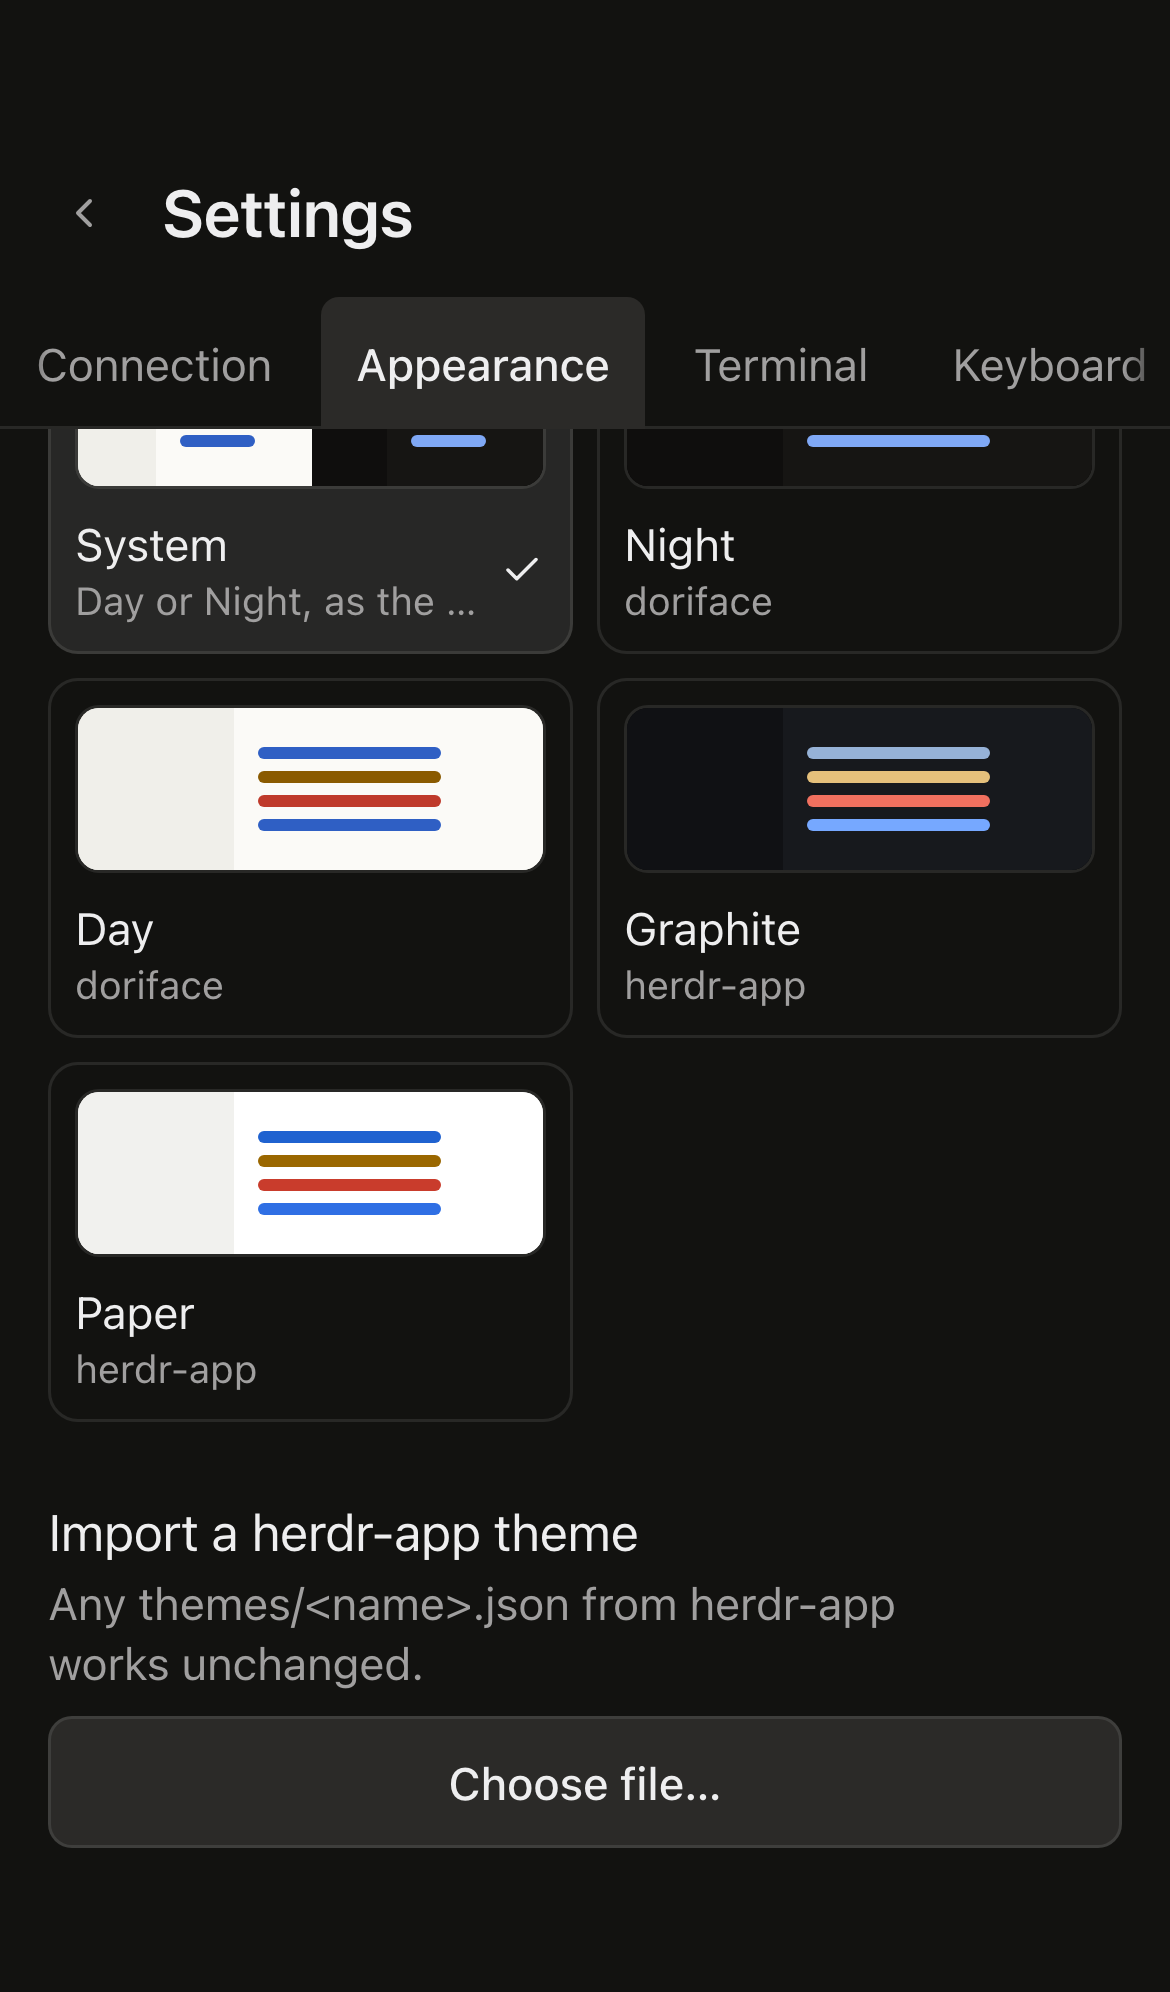
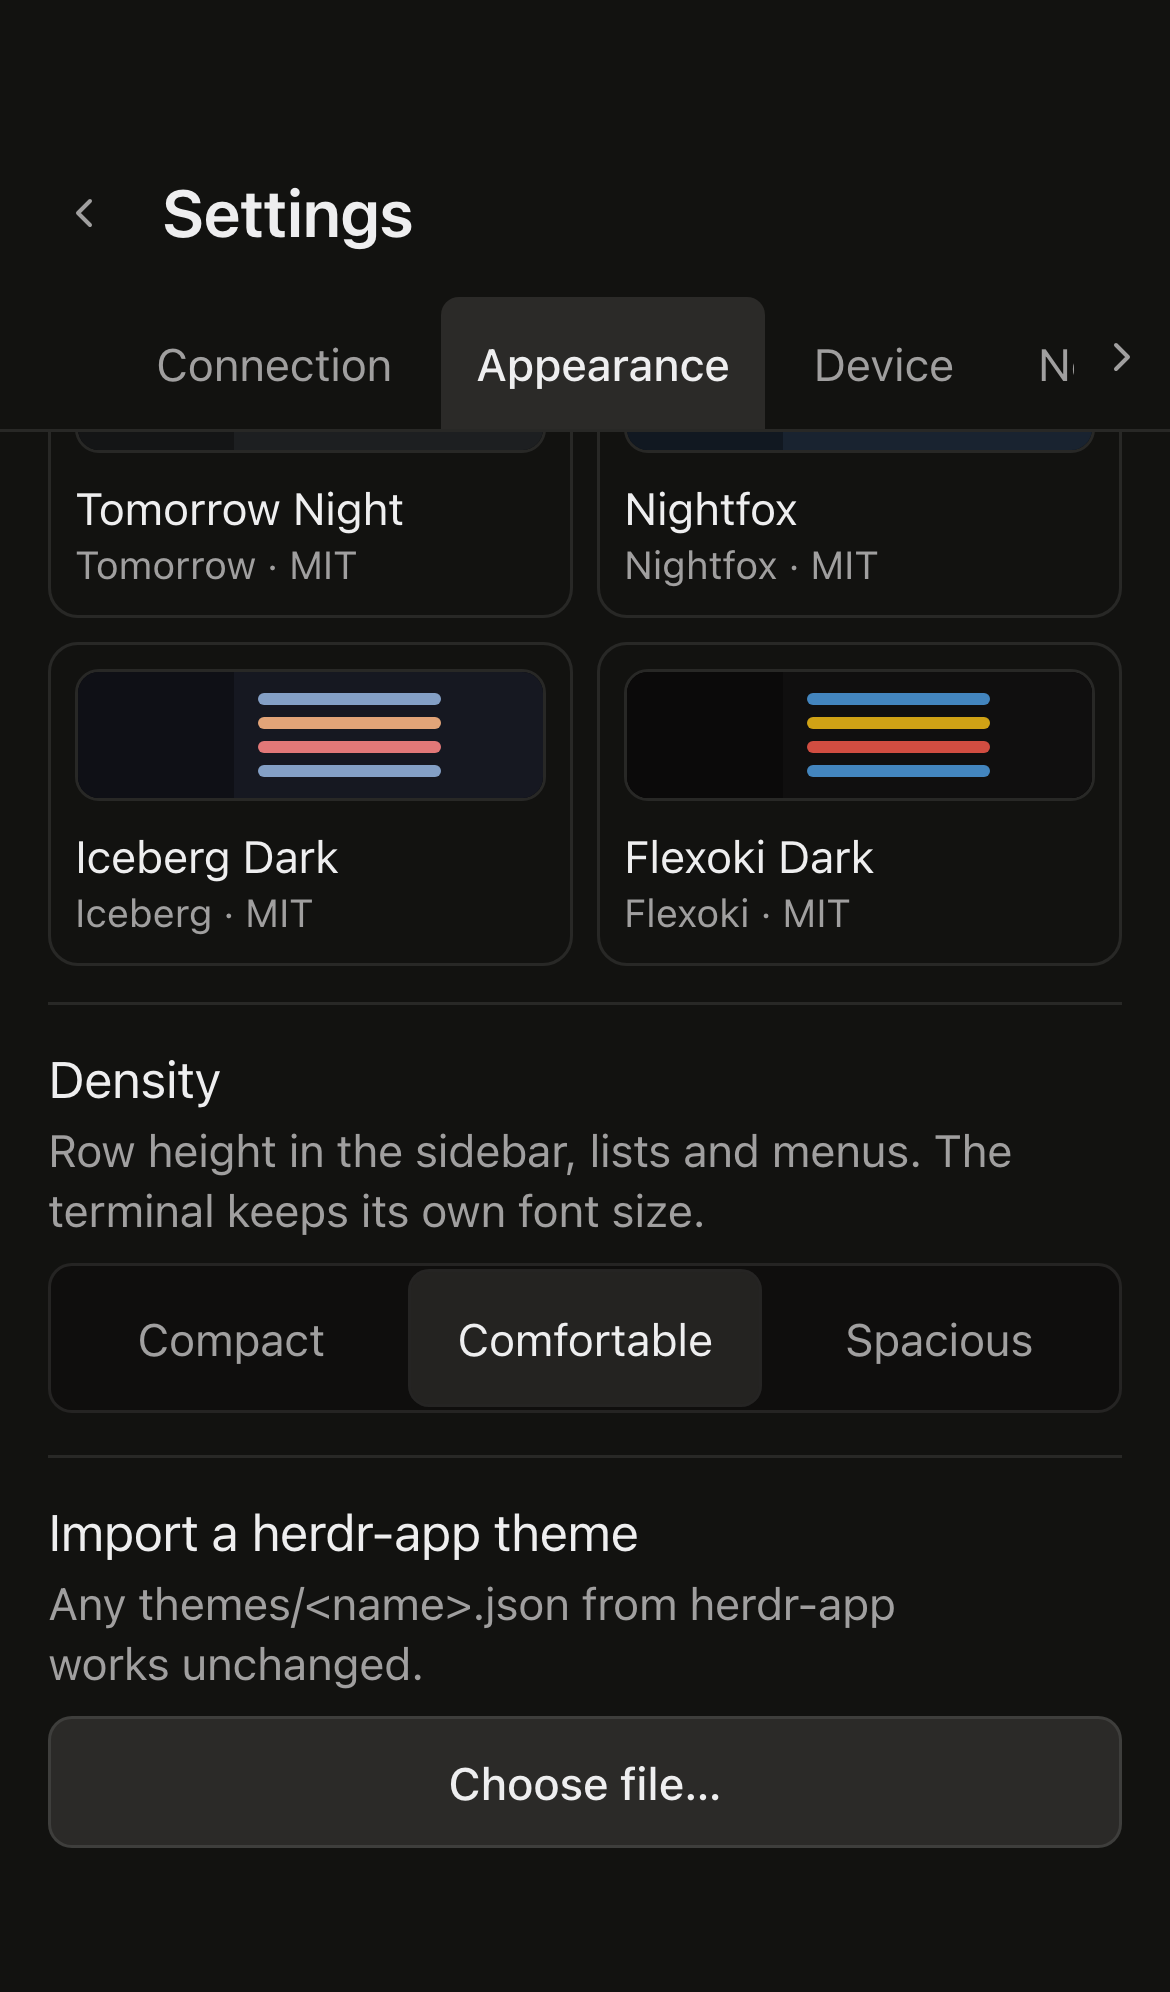
design(ui): mock up the theme library, density and device settings
ThemeBrowser lists dark and light themes with a search, their counts and one
pick per list; ThemePicker cards sit in a denser 8 rem grid and take a label.
The showcase's Appearance section uses them beside an Appearance switch and
Density, and a new section mocks up This device (keep the screen awake,
install, iOS Add to Home Screen). Captures in light and dark at 1440 and 390.

Part of #198

diff --git a/packages/ui/src/components/theme-browser.tsx b/packages/ui/src/components/theme-browser.tsx
@@ -1,0 +1,93 @@
+import { Search } from "lucide-react";
+import { useDeferredValue, useState } from "react";
+import { cn } from "../lib/cn.ts";
+import { Input } from "./input.tsx";
+import { SegmentedControl } from "./segmented-control.tsx";
+import { ThemePicker, type ThemeOption } from "./theme-picker.tsx";
+
+export type ThemeKind = "dark" | "light";
+
+export interface ThemeBrowserProps {
+  /** Every theme; each is listed under Dark or Light by its own `theme.light`. */
+  readonly options: readonly ThemeOption[];
+  /** The theme used when the appearance is dark, and when it is light. */
+  readonly dark: string;
+  readonly light: string;
+  /** The list shown first. */
+  readonly defaultKind: ThemeKind;
+  readonly onPick: (id: string, kind: ThemeKind) => void;
+  readonly className?: string;
+}
+
+const LABEL: Readonly<Record<ThemeKind, string>> = { dark: "Dark themes", light: "Light themes" };
+
+const matches = (option: ThemeOption, query: string): boolean =>
+  query === "" || `${option.name} ${option.source}`.toLowerCase().includes(query);
+
+/**
+ * The theme library: dark and light lists with their own pick, filtered by a search over name and source. A search
+ * that matches nothing in this list says so in place, beside how many the other list holds.
+ */
+export function ThemeBrowser({ options, dark, light, defaultKind, onPick, className }: ThemeBrowserProps) {
+  const [kind, setKind] = useState<ThemeKind>(defaultKind);
+  const [search, setSearch] = useState("");
+  const query = useDeferredValue(search.trim().toLowerCase());
+  const of = (wanted: ThemeKind) =>
+    options.filter((option) => option.theme.light === (wanted === "light") && matches(option, query));
+  const shown = of(kind);
+  const other: ThemeKind = kind === "dark" ? "light" : "dark";
+  const elsewhere = of(other).length;
+  const pickName = (wanted: ThemeKind) =>
+    options.find((option) => option.id === (wanted === "dark" ? dark : light))?.name ?? "None";
+  return (
+    <div className={cn("flex flex-col gap-3 py-3", className)}>
+      <div className="flex flex-wrap items-center gap-2">
+        <div className="relative min-w-[min(14rem,100%)] flex-1">
+          <Search
+            aria-hidden
+            className="pointer-events-none absolute top-1/2 left-2.5 size-3.5 -translate-y-1/2 text-muted-foreground"
+          />
+          <Input
+            type="search"
+            aria-label="Search themes"
+            placeholder="Search themes"
+            value={search}
+            onChange={(event) => setSearch(event.target.value)}
+            className="pl-8"
+          />
+        </div>
+        <SegmentedControl
+          label="Theme list"
+          value={kind}
+          onValueChange={setKind}
+          className="max-sm:w-full"
+          options={[
+            { value: "dark", label: `Dark ${of("dark").length}` },
+            { value: "light", label: `Light ${of("light").length}` },
+          ]}
+        />
+      </div>
+      <p className="text-sm text-muted-foreground">
+        Dark: <span className="text-foreground">{pickName("dark")}</span>
+        <span aria-hidden> · </span>
+        Light: <span className="text-foreground">{pickName("light")}</span>
+      </p>
+      {shown.length === 0 ? (
+        <p
+          role="status"
+          className="rounded-lg border border-border px-3 py-6 text-center text-sm text-muted-foreground"
+        >
+          No {kind} theme matches “{search.trim()}”.
+          {elsewhere > 0 ? ` ${elsewhere} ${other} ${elsewhere === 1 ? "theme does" : "themes do"}.` : ""}
+        </p>
+      ) : (
+        <ThemePicker
+          label={LABEL[kind]}
+          options={shown}
+          value={kind === "dark" ? dark : light}
+          onValueChange={(id) => onPick(id, kind)}
+        />
+      )}
+    </div>
+  );
+}

diff --git a/packages/ui/showcase/screens/settings-sections.tsx b/packages/ui/showcase/screens/settings-sections.tsx
@@ -2,28 +2,25 @@ import { Laptop, Smartphone, Tablet } from "lucide-react";
 import { useState, type ReactNode } from "react";
 import {
   BUILTIN_PALETTES,
+  BUILTIN_THEMES,
   Button,
   Input,
   SegmentedControl,
   SettingRow,
-  ThemePicker,
+  ThemeBrowser,
+  isBuiltinThemeName,
   resolveTheme,
   type ThemeOption,
 } from "../../src/index.ts";
 
-const THEMES: readonly ThemeOption[] = [
-  {
-    id: "system",
-    name: "System",
-    source: "Day or Night, as the device",
-    theme: resolveTheme(BUILTIN_PALETTES.day),
-    dark: resolveTheme(BUILTIN_PALETTES.night),
-  },
-  { id: "night", name: "Night", source: "doriface", theme: resolveTheme(BUILTIN_PALETTES.night) },
-  { id: "day", name: "Day", source: "doriface", theme: resolveTheme(BUILTIN_PALETTES.day) },
-  { id: "graphite", name: "Graphite", source: "herdr-app", theme: resolveTheme(BUILTIN_PALETTES.graphite) },
-  { id: "paper", name: "Paper", source: "herdr-app", theme: resolveTheme(BUILTIN_PALETTES.paper) },
-];
+const THEMES: readonly ThemeOption[] = Object.keys(BUILTIN_PALETTES)
+  .filter(isBuiltinThemeName)
+  .map((id) => ({
+    id,
+    name: BUILTIN_THEMES[id].name,
+    source: [BUILTIN_THEMES[id].family, BUILTIN_THEMES[id].licence].filter(Boolean).join(" · "),
+    theme: resolveTheme(BUILTIN_PALETTES[id]),
+  }));
 
 const DEVICES = [
   { id: "d1", name: "MacBook Pro", kind: <Laptop />, seen: "This device", current: true },
@@ -104,12 +101,51 @@ export function ConnectionSection() {
 }
 
 export function AppearanceSection() {
-  const [theme, setTheme] = useState("system");
+  const [mode, setMode] = useState<"system" | "light" | "dark">("system");
+  const [picks, setPicks] = useState({ dark: "night", light: "day" });
+  const [density, setDensity] = useState<"compact" | "comfortable" | "spacious">("comfortable");
   return (
     <Group title="Appearance">
-      <div className="py-3">
-        <ThemePicker options={THEMES} value={theme} onValueChange={setTheme} />
-      </div>
+      <SettingRow
+        title="Appearance"
+        description="System follows this device's light or dark setting."
+        control={
+          <SegmentedControl
+            label="Appearance"
+            value={mode}
+            onValueChange={setMode}
+            options={[
+              { value: "system", label: "System" },
+              { value: "light", label: "Light" },
+              { value: "dark", label: "Dark" },
+            ]}
+          />
+        }
+      />
+      <ThemeBrowser
+        options={THEMES}
+        dark={picks.dark}
+        light={picks.light}
+        defaultKind="dark"
+        onPick={(id, kind) => setPicks((current) => ({ ...current, [kind]: id }))}
+        className="border-b border-border"
+      />
+      <SettingRow
+        title="Density"
+        description="Row height in the sidebar, lists and menus. The terminal keeps its own font size."
+        control={
+          <SegmentedControl
+            label="Density"
+            value={density}
+            onValueChange={setDensity}
+            options={[
+              { value: "compact", label: "Compact" },
+              { value: "comfortable", label: "Comfortable" },
+              { value: "spacious", label: "Spacious" },
+            ]}
+          />
+        }
+      />
       <SettingRow
         title="Import a herdr-app theme"
         description="Any themes/<name>.json from herdr-app works unchanged."

diff --git a/packages/ui/src/components/theme-picker.tsx b/packages/ui/src/components/theme-picker.tsx
@@ -17,6 +17,8 @@ export interface ThemePickerProps {
   readonly options: readonly ThemeOption[];
   readonly value: string;
   readonly onValueChange?: (id: string) => void;
+  /** The group's accessible name. */
+  readonly label?: string;
   readonly className?: string;
 }
 
@@ -38,15 +40,15 @@ function Preview({ theme, className }: { readonly theme: ResolvedTheme; readonly
  * Theme swatches drawn from each theme's own colours. A system-following option shows its light and
  * dark sides split down the middle. Selection is a wash plus a check, not a coloured ring.
  */
-export function ThemePicker({ options, value, onValueChange, className }: ThemePickerProps) {
+export function ThemePicker({ options, value, onValueChange, label = "Theme", className }: ThemePickerProps) {
   return (
     <RadioGroup
-      aria-label="Theme"
+      aria-label={label}
       value={value}
       onValueChange={(next) => {
         if (typeof next === "string") onValueChange?.(next);
       }}
-      className={cn("grid grid-cols-[repeat(auto-fill,minmax(9.5rem,1fr))] gap-2", className)}
+      className={cn("grid grid-cols-[repeat(auto-fill,minmax(8rem,1fr))] gap-2", className)}
     >
       {options.map((option) => (
         <Radio.Root
@@ -57,14 +59,18 @@ export function ThemePicker({ options, value, onValueChange, className }: ThemeP
             "hover:bg-hover focus-visible:outline-2 focus-visible:outline-solid focus-visible:outline-ring data-checked:bg-selected",
           )}
         >
-          <span aria-hidden className="flex h-14 overflow-hidden rounded-md border border-border">
+          <span aria-hidden className="flex h-11 overflow-hidden rounded-md border border-border">
             <Preview theme={option.theme} className="flex-1" />
             {option.dark === undefined ? null : <Preview theme={option.dark} className="flex-1" />}
           </span>
           <span className="flex items-center gap-1.5">
             <span className="min-w-0 flex-1">
-              <span className="block truncate text-sm text-foreground">{option.name}</span>
-              <span className="block truncate text-xs text-muted-foreground">{option.source}</span>
+              <span title={option.name} className="block truncate text-sm text-foreground">
+                {option.name}
+              </span>
+              <span title={option.source} className="block truncate text-xs text-muted-foreground">
+                {option.source}
+              </span>
             </span>
             <Radio.Indicator className="flex size-4 items-center justify-center text-foreground">
               <Check className="size-3.5" />

diff --git a/packages/ui/showcase/screens/settings.tsx b/packages/ui/showcase/screens/settings.tsx
@@ -1,15 +1,17 @@
-import { ChevronLeft, Keyboard, Link2, Palette, SquareTerminal, X } from "lucide-react";
+import { ChevronLeft, Keyboard, Link2, MonitorSmartphone, Palette, SquareTerminal, X } from "lucide-react";
 import { useState, type ReactNode } from "react";
 import { Button, IconButton, ScrollArea, Tab, TabList, Tabs, cn } from "../../src/index.ts";
+import { DeviceSection } from "./settings-device.tsx";
 import { KeyboardSection } from "./settings-keyboard.tsx";
 import { AppearanceSection, ConnectionSection } from "./settings-sections.tsx";
 import { TerminalSection } from "./settings-terminal.tsx";
 
-export type SettingsSection = "connection" | "appearance" | "terminal" | "keyboard";
+export type SettingsSection = "connection" | "appearance" | "device" | "terminal" | "keyboard";
 
 const SECTIONS = [
   { id: "connection", label: "Connection", icon: <Link2 /> },
   { id: "appearance", label: "Appearance", icon: <Palette /> },
+  { id: "device", label: "Device", icon: <MonitorSmartphone /> },
   { id: "terminal", label: "Terminal", icon: <SquareTerminal /> },
   { id: "keyboard", label: "Keyboard", icon: <Keyboard /> },
 ] as const;
@@ -17,6 +19,7 @@ const SECTIONS = [
 const BODY: Readonly<Record<SettingsSection, () => ReactNode>> = {
   connection: () => <ConnectionSection />,
   appearance: () => <AppearanceSection />,
+  device: () => <DeviceSection />,
   terminal: () => <TerminalSection />,
   keyboard: () => <KeyboardSection />,
 };
@@ -87,6 +90,10 @@ export function SettingsScreen({ section: initial = "connection" }: { readonly s
 
 export function SettingsAppearanceScreen() {
   return <SettingsScreen section="appearance" />;
+}
+
+export function SettingsDeviceScreen() {
+  return <SettingsScreen section="device" />;
 }
 
 export function SettingsTerminalScreen() {

diff --git a/packages/ui/showcase/screens/settings-device.tsx b/packages/ui/showcase/screens/settings-device.tsx
@@ -1,0 +1,32 @@
+import { useState } from "react";
+import { Button, SettingRow, Switch } from "../../src/index.ts";
+import { Group } from "./settings-sections.tsx";
+
+export function DeviceSection() {
+  const [awake, setAwake] = useState(true);
+  return (
+    <>
+      <Group title="This device">
+        <SettingRow
+          inline
+          title="Keep the screen awake"
+          description="While a terminal is on screen. Released when you switch away."
+          control={<Switch aria-label="Keep the screen awake" checked={awake} onCheckedChange={setAwake} />}
+        />
+        <SettingRow
+          inline
+          title="Install doriface"
+          description="Opens in its own window, from the Dock or the home screen."
+          control={<Button size="sm">Install</Button>}
+        />
+      </Group>
+      <Group title="On iPhone and iPad">
+        <SettingRow
+          title="Add to Home Screen"
+          description="In Safari, tap Share, then Add to Home Screen."
+          control={null}
+        />
+      </Group>
+    </>
+  );
+}

diff --git a/packages/ui/showcase/routes.tsx b/packages/ui/showcase/routes.tsx
@@ -5,6 +5,7 @@ import { PaletteScreen } from "./screens/palette.tsx";
 import { PrimitivesScreen } from "./screens/primitives.tsx";
 import {
   SettingsAppearanceScreen,
+  SettingsDeviceScreen,
   SettingsKeyboardScreen,
   SettingsScreen,
   SettingsTerminalScreen,
@@ -19,6 +20,7 @@ export const ROUTES = [
   { id: "palette", title: "Command palette", render: PaletteScreen },
   { id: "settings", title: "Settings", render: SettingsScreen },
   { id: "settings-appearance", title: "Settings: appearance", render: SettingsAppearanceScreen },
+  { id: "settings-device", title: "Settings: device", render: SettingsDeviceScreen },
   { id: "settings-terminal", title: "Settings: terminal", render: SettingsTerminalScreen },
   { id: "settings-keyboard", title: "Settings: keyboard", render: SettingsKeyboardScreen },
   { id: "mobile", title: "Phone", render: MobileScreen },

diff --git a/packages/ui/src/index.ts b/packages/ui/src/index.ts
@@ -58,6 +58,7 @@ export {
   type TerminalPreviewProps,
   type TerminalSpan,
 } from "./components/terminal-preview.tsx";
+export { ThemeBrowser, type ThemeBrowserProps, type ThemeKind } from "./components/theme-browser.tsx";
 export { ThemePicker, type ThemeOption, type ThemePickerProps } from "./components/theme-picker.tsx";
 export { ToastProvider, ToastViewport, useToastManager, type ToastViewportProps } from "./components/toast.tsx";
 export { Tooltip, TooltipProvider, type TooltipProps } from "./components/tooltip.tsx";

diff --git a/packages/ui/scripts/capture.ts b/packages/ui/scripts/capture.ts
@@ -18,6 +18,7 @@ const SCREENS = [
   "palette",
   "settings",
   "settings-appearance",
+  "settings-device",
   "settings-terminal",
   "settings-keyboard",
   "mobile",
@@ -28,6 +29,7 @@ const SCREENS = [
 const SCROLLERS: Readonly<Record<string, string>> = {
   settings: "settings-body",
   "settings-appearance": "settings-body",
+  "settings-device": "settings-body",
   "settings-terminal": "settings-body",
   "settings-keyboard": "settings-body",
 };
